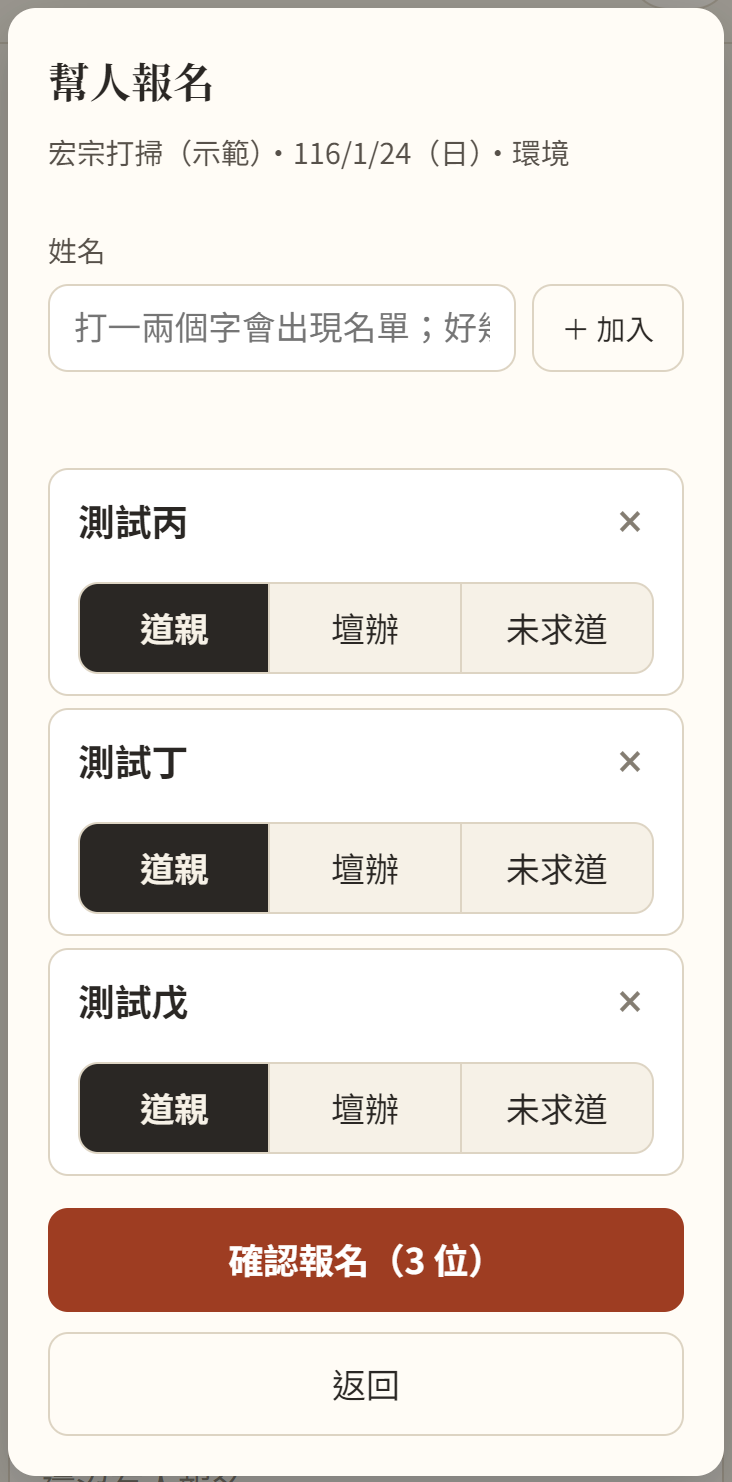
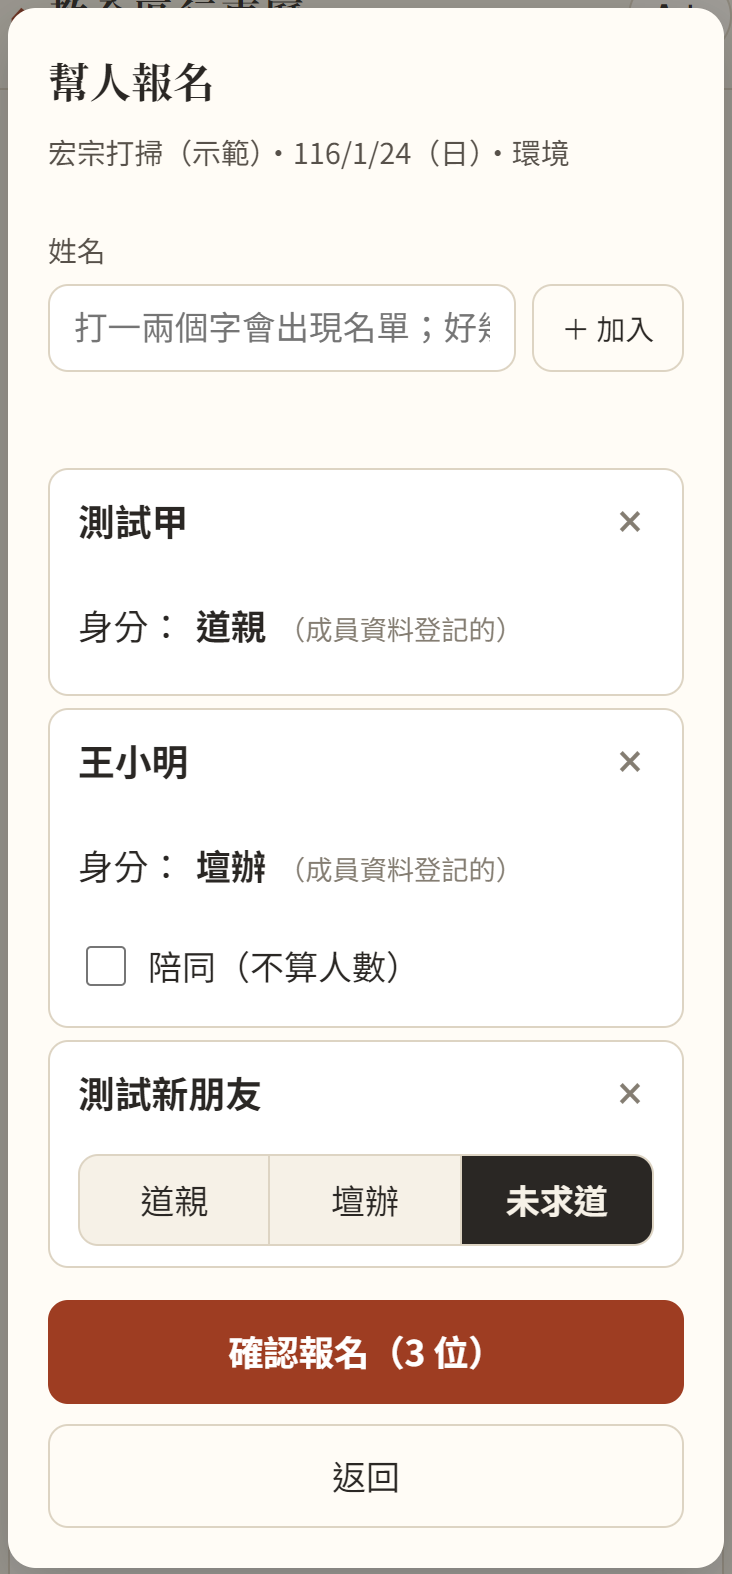
補登：成員資料有登記身分的自動帶入、不用選

diff --git a/index.html b/index.html
@@ -23,7 +23,7 @@
   <link rel="preconnect" href="https://fonts.googleapis.com">
   <link rel="preconnect" href="https://fonts.gstatic.com" crossorigin>
   <link href="https://fonts.googleapis.com/css2?family=Noto+Sans+TC:wght@400;500;700&family=Noto+Serif+TC:wght@600;700&display=swap" rel="stylesheet">
-  <link rel="stylesheet" href="css/app.css?v=20261122b">
+  <link rel="stylesheet" href="css/app.css?v=20261122c">
   <script>try { var t = localStorage.getItem('duty-calendar:text-size'); if (t === 'l' || t === 'xl') document.documentElement.classList.add('text-' + t); } catch (e) {}</script>
 </head>
 <body class="splash-on">
@@ -118,63 +118,63 @@
   <script src="https://cdn.jsdelivr.net/npm/fullcalendar@6.1.21/index.global.min.js"></script>
   <script src="https://cdn.jsdelivr.net/npm/@fullcalendar/core@6.1.21/locales/zh-tw.global.min.js"></script>
   <!-- 改了 js、css 後把 ?v= 的日期換新，手機才不會用到舊的檔案（GitHub Pages 會快取 10 分鐘） -->
-  <script src="js/site.js?v=20261122b"></script>
-  <script src="js/region.js?v=20261122b"></script>
-  <script src="js/config.js?v=20261122b"></script>
-  <script src="js/api.js?v=20261122b"></script>
-  <script src="js/format.js?v=20261122b"></script>
-  <script src="js/lunar-util.js?v=20261122b"></script>
-  <script src="js/date-list.js?v=20261122b"></script>
-  <script src="js/share.js?v=20261122b"></script>
-  <script src="js/addcal.js?v=20261122b"></script>
-  <script src="js/duty-cache.js?v=20261122b"></script>
-  <script src="js/thanks-board.js?v=20261122b"></script>
-  <script src="js/calendar.js?v=20261122b"></script>
-  <script src="js/confirm.js?v=20261122b"></script>
-  <script src="js/reschedule.js?v=20261122b"></script>
-  <script src="js/signup.js?v=20261122b"></script>
-  <script src="js/duty-images.js?v=20261122b"></script>
-  <script src="js/roster-grid.js?v=20261122b"></script>
-  <script src="js/grid-page.js?v=20261122b"></script>
-  <script src="js/grid-image.js?v=20261122b"></script>
-  <script src="js/thanks-image.js?v=20261122b"></script>
-  <script src="js/celebrate.js?v=20261122b"></script>
-  <script src="js/duty.js?v=20261122b"></script>
-  <script src="js/mine.js?v=20261122b"></script>
-  <script src="js/venue-hours.js?v=20261122b"></script>
-  <script src="js/venue.js?v=20261122b"></script>
-  <script src="js/push.js?v=20261122b"></script>
-  <script src="js/admin.js?v=20261122b"></script>
-  <script src="js/admin-pages.js?v=20261122b"></script>
-  <script src="js/draft-editor.js?v=20261122b"></script>
-  <script src="js/group-fair.js?v=20261122b"></script>
-  <script src="js/admin-duties.js?v=20261122b"></script>
-  <script src="js/admin-accounts.js?v=20261122b"></script>
-  <script src="js/admin-site.js?v=20261122b"></script>
-  <script src="js/region-setup.js?v=20261122b"></script>
-  <script src="js/import-parse.js?v=20261122b"></script>
-  <script src="js/admin-import.js?v=20261122b"></script>
-  <script src="js/admin-people.js?v=20261122b"></script>
-  <script src="js/stats-calc.js?v=20261122b"></script>
-  <script src="js/edu-stats.js?v=20261122b"></script>
-  <script src="js/admin-goals.js?v=20261122b"></script>
-  <script src="js/admin-venue.js?v=20261122b"></script>
-  <script src="js/admin-push.js?v=20261122b"></script>
-  <script src="js/tutorial.js?v=20261122b"></script>
-  <script src="js/help.js?v=20261122b"></script>
-  <script src="js/rollcall.js?v=20261122b"></script>
-  <script src="js/stats-export.js?v=20261122b"></script>
-  <script src="js/repair.js?v=20261122b"></script>
-  <script src="js/activity-report.js?v=20261122b"></script>
-  <script src="js/member-stats.js?v=20261122b"></script>
-  <script src="js/admin-stats.js?v=20261122b"></script>
-  <script src="js/admin-report.js?v=20261122b"></script>
-  <script src="js/admin-recent-signups.js?v=20261122b"></script>
-  <script src="js/admin-notice.js?v=20261122b"></script>
-  <script src="js/admin-notify.js?v=20261122b"></script>
-  <script src="js/history-parse.js?v=20261122b"></script>
-  <script src="js/admin-history.js?v=20261122b"></script>
-  <script src="js/easy-mode.js?v=20261122b"></script>
-  <script src="js/app.js?v=20261122b"></script>
+  <script src="js/site.js?v=20261122c"></script>
+  <script src="js/region.js?v=20261122c"></script>
+  <script src="js/config.js?v=20261122c"></script>
+  <script src="js/api.js?v=20261122c"></script>
+  <script src="js/format.js?v=20261122c"></script>
+  <script src="js/lunar-util.js?v=20261122c"></script>
+  <script src="js/date-list.js?v=20261122c"></script>
+  <script src="js/share.js?v=20261122c"></script>
+  <script src="js/addcal.js?v=20261122c"></script>
+  <script src="js/duty-cache.js?v=20261122c"></script>
+  <script src="js/thanks-board.js?v=20261122c"></script>
+  <script src="js/calendar.js?v=20261122c"></script>
+  <script src="js/confirm.js?v=20261122c"></script>
+  <script src="js/reschedule.js?v=20261122c"></script>
+  <script src="js/signup.js?v=20261122c"></script>
+  <script src="js/duty-images.js?v=20261122c"></script>
+  <script src="js/roster-grid.js?v=20261122c"></script>
+  <script src="js/grid-page.js?v=20261122c"></script>
+  <script src="js/grid-image.js?v=20261122c"></script>
+  <script src="js/thanks-image.js?v=20261122c"></script>
+  <script src="js/celebrate.js?v=20261122c"></script>
+  <script src="js/duty.js?v=20261122c"></script>
+  <script src="js/mine.js?v=20261122c"></script>
+  <script src="js/venue-hours.js?v=20261122c"></script>
+  <script src="js/venue.js?v=20261122c"></script>
+  <script src="js/push.js?v=20261122c"></script>
+  <script src="js/admin.js?v=20261122c"></script>
+  <script src="js/admin-pages.js?v=20261122c"></script>
+  <script src="js/draft-editor.js?v=20261122c"></script>
+  <script src="js/group-fair.js?v=20261122c"></script>
+  <script src="js/admin-duties.js?v=20261122c"></script>
+  <script src="js/admin-accounts.js?v=20261122c"></script>
+  <script src="js/admin-site.js?v=20261122c"></script>
+  <script src="js/region-setup.js?v=20261122c"></script>
+  <script src="js/import-parse.js?v=20261122c"></script>
+  <script src="js/admin-import.js?v=20261122c"></script>
+  <script src="js/admin-people.js?v=20261122c"></script>
+  <script src="js/stats-calc.js?v=20261122c"></script>
+  <script src="js/edu-stats.js?v=20261122c"></script>
+  <script src="js/admin-goals.js?v=20261122c"></script>
+  <script src="js/admin-venue.js?v=20261122c"></script>
+  <script src="js/admin-push.js?v=20261122c"></script>
+  <script src="js/tutorial.js?v=20261122c"></script>
+  <script src="js/help.js?v=20261122c"></script>
+  <script src="js/rollcall.js?v=20261122c"></script>
+  <script src="js/stats-export.js?v=20261122c"></script>
+  <script src="js/repair.js?v=20261122c"></script>
+  <script src="js/activity-report.js?v=20261122c"></script>
+  <script src="js/member-stats.js?v=20261122c"></script>
+  <script src="js/admin-stats.js?v=20261122c"></script>
+  <script src="js/admin-report.js?v=20261122c"></script>
+  <script src="js/admin-recent-signups.js?v=20261122c"></script>
+  <script src="js/admin-notice.js?v=20261122c"></script>
+  <script src="js/admin-notify.js?v=20261122c"></script>
+  <script src="js/history-parse.js?v=20261122c"></script>
+  <script src="js/admin-history.js?v=20261122c"></script>
+  <script src="js/easy-mode.js?v=20261122c"></script>
+  <script src="js/app.js?v=20261122c"></script>
 </body>
 </html>

diff --git a/js/admin.js b/js/admin.js
@@ -1097,13 +1097,28 @@
     let members = [];
     const cached = memo.get('members');
     (cached ? Promise.resolve(cached.data) : fetchShared('members', () => Api.admin('adminMembers', {}, true)))
-      .then((data) => { members = (data.members || []).filter((x) => x.active !== false); onName(); paint(); })
+      .then((data) => { members = (data.members || []).filter((x) => x.active !== false); people.forEach(fromMember); onName(); paint(); })
       .catch(() => {});
+    const sameOf = (name) => members.filter((x) => x.name === name || (x.aliases || []).indexOf(name) !== -1);
     const lookup = (name, temple) => {
-      const same = members.filter((x) => x.name === name || (x.aliases || []).indexOf(name) !== -1);
+      const same = sameOf(name);
       if (temple !== undefined) return same.find((x) => (x.temple || '') === temple) || null;
       return same.length === 1 ? same[0] : null;
     };
+    /**
+     * 成員資料登記的身分（壇辦、道親、點傳師⋯）自動帶入、不用選（2026/11/22）；伺服器也以名單為準。
+     * 同名好幾位（不同佛堂）但身分都一樣，也帶入。
+     */
+    function fromMember(x) {
+      const hit = lookup(x.name, x.temple || undefined) || lookup(x.name);
+      let id = hit ? hit.identity : '';
+      if (!hit) {
+        const ids = [...new Set(sameOf(x.name).map((y) => y.identity).filter(Boolean))];
+        if (ids.length === 1) id = ids[0];
+      }
+      if (hit && !x.temple) x.temple = hit.temple || '';
+      if (id) { x.identity = id; x.locked = true; if (id !== '壇辦') x.accompany = false; }
+    }
     function add(name, temple) {
       name = String(name || '').trim();
       if (!name) return;
@@ -1111,8 +1126,9 @@
       const t = hit ? (hit.temple || '') : (temple || '');
       const realName = hit ? hit.name : name;
       if (people.some((x) => x.name === realName && x.temple === t)) return; // 已經在下面了
-      const id = hit && IDS.indexOf(hit.identity) !== -1 ? hit.identity : '';
-      people.push({ name: realName, temple: t, identity: id, accompany: false, error: '' });
+      const x = { name: realName, temple: t, identity: '', accompany: false, error: '' };
+      fromMember(x);
+      people.push(x);
     }
     function addTyped() {
       const parts = SignupForm.splitInput(input.value);
@@ -1129,7 +1145,7 @@
             <span class="name-text">${esc(x.name)}${x.temple ? `<small class="name-temple">${esc(x.temple)}</small>` : ''}</span>
             <button type="button" class="btn-remove" data-remove="${i}" aria-label="移除 ${esc(x.name)}">×</button>
           </div>
-          <div class="seg" role="radiogroup" aria-label="${esc(x.name)} 的身分">${IDS.map((v) => `<label class="seg-item"><input type="radio" name="id-${i}" value="${v}" data-id="${i}"${x.identity === v ? ' checked' : ''}><span>${v}</span></label>`).join('')}</div>
+          ${x.locked ? `<p class="identity-fixed">身分：<strong>${esc(x.identity)}</strong><span class="muted">（成員資料登記的）</span></p>` : `<div class="seg" role="radiogroup" aria-label="${esc(x.name)} 的身分">${IDS.map((v) => `<label class="seg-item"><input type="radio" name="id-${i}" value="${v}" data-id="${i}"${x.identity === v ? ' checked' : ''}><span>${v}</span></label>`).join('')}</div>`}
           ${x.identity === '壇辦' ? `<label class="check"><input type="checkbox" data-acc="${i}"${x.accompany ? ' checked' : ''}> 陪同（不算人數）</label>` : ''}
           ${x.error ? `<p class="form-error">${esc(x.error)}</p>` : ''}
         </li>`).join('');

diff --git a/tools/help-shots.js b/tools/help-shots.js
@@ -195,8 +195,8 @@ const SHOTS = [
   { name: 'adm-multi-add', admin: true, hash: null, js: `let d = (await __g({ action: 'getEvents', from: '2027-01-24', to: '2027-01-24' })).data.duties.find((x) => x.name === '宏宗打掃（示範）');
       if (!d) { const id = (await Api.admin('adminCreateDuties', { duties: [{ name: '宏宗打掃（示範）', category: '勤務', start: '2027-01-24', end: '2027-01-24', startTime: '08:00', location: '宏宗', positions: [{ name: '大殿', max: 6 }, { name: '環境', max: 4 }] }] })).ids[0]; d = (await __g({ action: 'getDuty', id })).data; }
       location.hash = '#/admin/duty/' + encodeURIComponent(d.id) + '?date=2027-01-24'; for (let i = 0; i < 30 && !document.querySelector('[data-walkin]'); i++) await __wait(300); document.querySelectorAll('[data-walkin]')[1].click(); await __wait(800);
-      const inp = document.querySelector('.modal-form [name=name]'); inp.value = '測試丙、測試丁、'; inp.dispatchEvent(new Event('input', { bubbles: true })); await __wait(200); inp.value = '測試戊'; inp.dispatchEvent(new Event('input', { bubbles: true })); await __wait(200); document.querySelector('[data-add-name]').click(); await __wait(200);
-      const r = document.querySelector('.modal-form input[name=id-0][value=道親]'); r.checked = true; r.dispatchEvent(new Event('change', { bubbles: true })); await __wait(200);
+      const inp = document.querySelector('.modal-form [name=name]'); inp.value = '測試甲、王小明、'; inp.dispatchEvent(new Event('input', { bubbles: true })); await __wait(200); inp.value = '測試新朋友'; inp.dispatchEvent(new Event('input', { bubbles: true })); await __wait(200); document.querySelector('[data-add-name]').click(); await __wait(200);
+      const r = document.querySelector('.modal-form input[name=id-2][value=未求道]'); if (!r) throw new Error('INFO ' + document.querySelector('.modal-form').innerText.replace(/s+/g, ' ')); r.checked = true; r.dispatchEvent(new Event('change', { bubbles: true })); await __wait(200); if (document.querySelectorAll('.modal-form .identity-fixed').length < 1) throw new Error('INFO no fixed: ' + document.querySelector('.modal-form').innerText.replace(/s+/g, ' '));
       const n = document.querySelectorAll('.modal-form .name-item').length; if (n !== 3) throw new Error('INFO items=' + n); console.log(document.querySelector('[data-submit]').textContent);`,
     clip: `return __box('.modal-box', 4);` },
   { name: 'adm-person-menu', admin: true, hash: null, js: `let d = (await __g({ action: 'getEvents', from: '2027-01-24', to: '2027-01-24' })).data.duties.find((x) => x.name === '宏宗打掃（示範）');

diff --git a/css/app.css b/css/app.css
@@ -1043,6 +1043,7 @@ button.more-item { width: 100%; text-align: left; font: inherit; cursor: pointer
 .add-name-row .input { flex: 1; min-width: 0; }
 .modal-form .name-item .seg { margin: 8px 10px 0 0; }
 .modal-form .name-item .check { margin: 6px 0 0; }
+.modal-form .name-item .identity-fixed { margin: 6px 10px 0 0; }
 .modal-form .name-item .form-error { margin: 6px 10px 0 0; }
 /* 🚀 開始使用（新開通的區，2026/11/21） */
 .onboard { margin: 0 0 16px; padding: 14px 16px; border: 2px solid var(--accent); border-radius: var(--radius); background: var(--paper); }

diff --git a/docs/spec.md b/docs/spec.md
@@ -150,7 +150,7 @@
    - 新增、修改、刪除勤務都寫入操作紀錄（不提供還原）。
 3. **批次匯入**：貼上多列（日期、名稱、地點、負責組…）一次建立多筆勤務。先檢查並預覽，有錯的列標紅，全部正確才能匯入。
 4. **出席修正**：勤務結束後，預設「報名＝出席」；管理者可勾「未到」、補上沒報名但有來的人、改「陪同」。
-   - 勤務當天（含）之前的名單才出現「改未到／改出席」「改陪同／改了愿」（只有壇辦能陪同）「補登」。補登不受日期限制，名額與同日重複只警告；每次修正寫入操作紀錄（動作「修正」）。未來的日期也可以由管理者「＋ 幫人報名」（同補登：直接記為有效報名、不受截止日與「當天不能報」限制，名額與重複只警告；操作紀錄寫「管理者幫人報名」；姓名欄打字時列出成員名單（啟用中、名字含所打的字，附身分），點了帶入姓名與身分；名單上已登記身分的以名單為準（伺服器也照這個規則）；職司表的勤務可同時填註記）。**2026/11/22 起補登／幫人報名可以一次好幾位**：姓名欄打「、，;」或按 Enter／「＋ 加入」就把名字加到下面的清單（拆法同報名頁 SignupForm.splitInput，可貼 LINE 名單），點名字提示也直接加入；每位一張卡片各選身分（名單上登記的自動帶入）、壇辦可勾陪同、× 移除；張數、註記每位都一樣。按「補登（N 位）」逐位呼叫 adminAddAttendee（進度「補登中⋯（2／3）」）；全部成功關掉視窗、訊息列出名字；有人失敗時視窗留著，成功的拿掉、失敗的卡片標出原因，關掉視窗時重新整理名單。勤務管理的月份選單有「已過去（補登人員）」：列出已結束的勤務（最近的在前），點進去直接是報名名單（最後一天），選日期後按「＋ 補登」加人；已結束的勤務在其他篩選下點進去也是報名名單，名單頁有「編輯勤務 ›」。
+   - 勤務當天（含）之前的名單才出現「改未到／改出席」「改陪同／改了愿」（只有壇辦能陪同）「補登」。補登不受日期限制，名額與同日重複只警告；每次修正寫入操作紀錄（動作「修正」）。未來的日期也可以由管理者「＋ 幫人報名」（同補登：直接記為有效報名、不受截止日與「當天不能報」限制，名額與重複只警告；操作紀錄寫「管理者幫人報名」；姓名欄打字時列出成員名單（啟用中、名字含所打的字，附身分），點了帶入姓名與身分；名單上已登記身分的以名單為準（伺服器也照這個規則）；職司表的勤務可同時填註記）。**2026/11/22 起補登／幫人報名可以一次好幾位**：姓名欄打「、，;」或按 Enter／「＋ 加入」就把名字加到下面的清單（拆法同報名頁 SignupForm.splitInput，可貼 LINE 名單），點名字提示也直接加入；每位一張卡片；成員資料有登記身分的直接顯示「身分：壇辦（成員資料登記的）」不用選（同名不同佛堂但身分都一樣也算；成員名單晚讀到時，已加入的也補上），沒登記的才選道親／壇辦／未求道、壇辦可勾陪同、× 移除；張數、註記每位都一樣。按「補登（N 位）」逐位呼叫 adminAddAttendee（進度「補登中⋯（2／3）」）；全部成功關掉視窗、訊息列出名字；有人失敗時視窗留著，成功的拿掉、失敗的卡片標出原因，關掉視窗時重新整理名單。勤務管理的月份選單有「已過去（補登人員）」：列出已結束的勤務（最近的在前），點進去直接是報名名單（最後一天），選日期後按「＋ 補登」加人；已結束的勤務在其他篩選下點進去也是報名名單，名單頁有「編輯勤務 ›」。
 5. **操作紀錄**：時間、動作、內容、還原按鈕。
 6. **名單**（原「明日名單」，2026/10/5 改）：總管理者看全部類別，勤務／道務／教育帳號只看自己類別。列出今天起一個月有報名的日期（勾選、全選／都不選），產生文字複製貼 LINE，格式：第一行「教全區」，每個日期一段（單一天也寫日期，例「11/14（六）」），每個勤務一行「勤務名稱:名字、名字」（不分了愿項目、不含陪同重複，依報名順序）。
 7. **成員名單管理**、**分組管理**。
